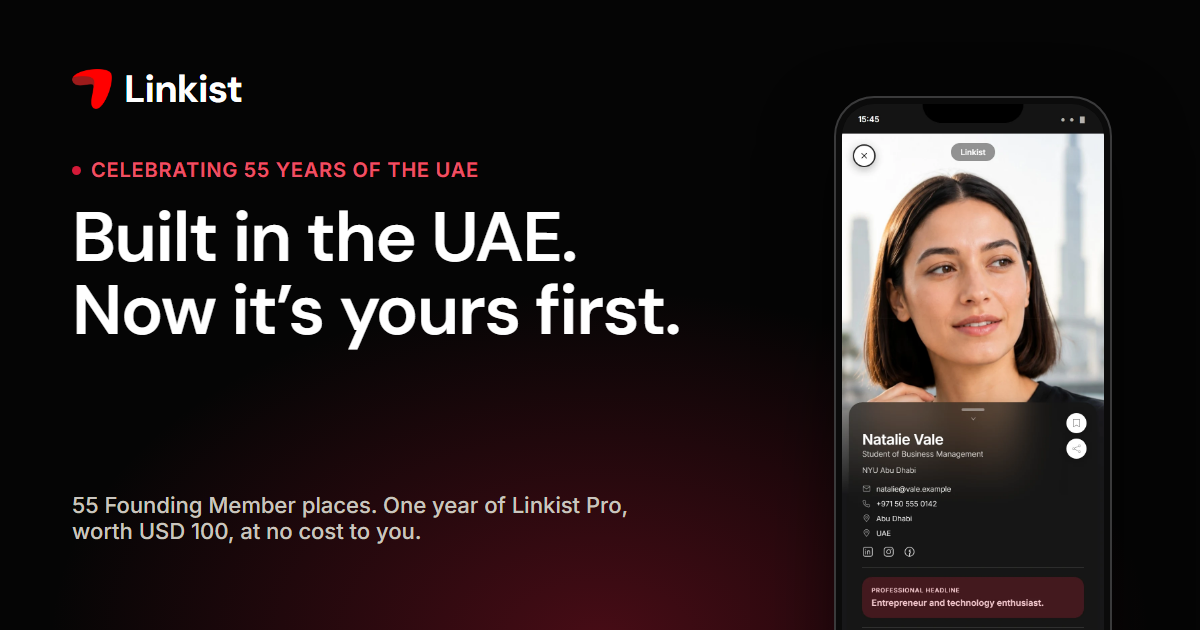
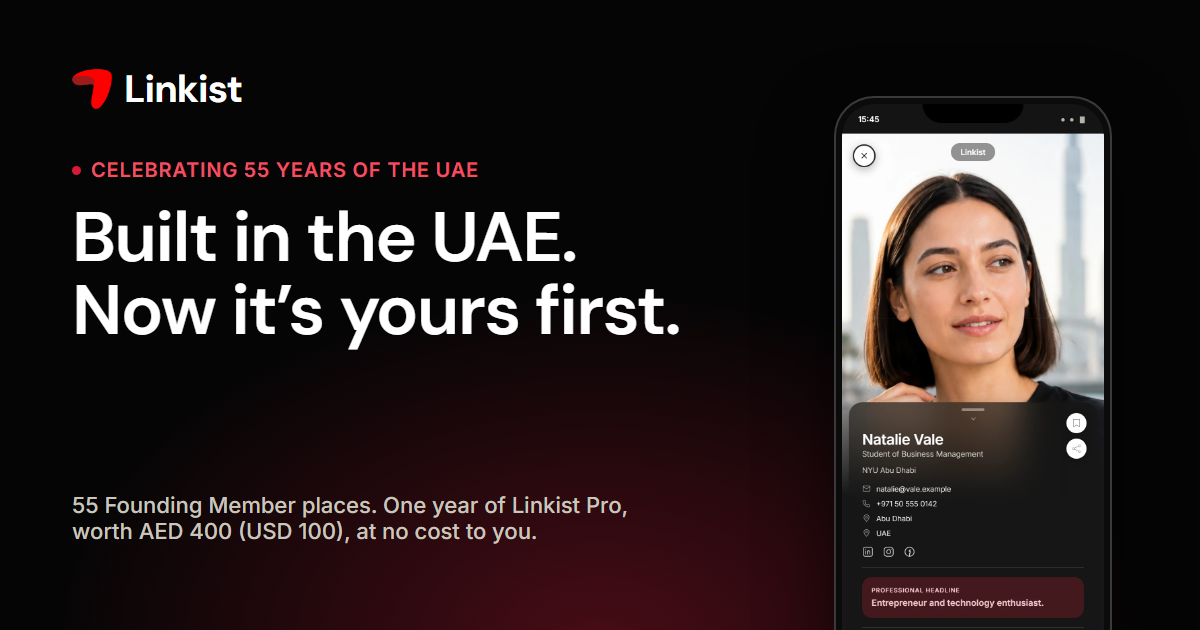
Early access: AED 400 (USD 100) everywhere the value appears (D88)
The thank-you paragraph, the "One year of Linkist Pro" card figure, the
confirmation's "What you get" list, the welcome email and the share image
now say "AED 400 (USD 100)" instead of "USD 100". On the card, "(USD 100)"
is set smaller after "AED 400" so the figure fits on a phone. The price
test now covers the confirmation, the email and the share image, and a
test keeps "worth USD 100" from coming back.

Changed region(s): [[0.1233, 0.8143, 0.4625, 0.8746]]

diff --git a/src/content/plans.test.ts b/src/content/plans.test.ts
@@ -28,13 +28,26 @@ describe('prices in two currencies (D78)', () => {
 
   it('writes the same pairs in the page and answer text', () => {
     // Any "AED n ($m)", "$m (AED n)" or "USD m (AED n)" written out in a page, the help centre, the assistant or llms.txt follows the same rate.
-    const files = ['src/content/help.ts', 'src/lib/knowledge.ts', 'src/app/bundles/page.tsx', 'src/app/nfc-cards/page.tsx', 'src/app/pricing/page.tsx', 'src/app/early-access/page.tsx', 'src/app/llms.txt/route.ts', 'src/content/plans.ts'];
+    const files = [
+      'src/content/help.ts',
+      'src/lib/knowledge.ts',
+      'src/app/bundles/page.tsx',
+      'src/app/nfc-cards/page.tsx',
+      'src/app/pricing/page.tsx',
+      'src/app/early-access/page.tsx',
+      'src/components/early-access/ClaimForm.tsx',
+      'src/app/api/early-access/route.ts',
+      'src/content/og.ts',
+      'src/app/llms.txt/route.ts',
+      'src/content/plans.ts',
+    ];
     for (const f of files) {
       const text = readFileSync(f, 'utf8');
       const n = (s: string) => Number(s.replace(/,/g, ''));
       for (const m of text.matchAll(/AED ([\d,]+) \(\$([\d,]+)\)/g)) expect(n(m[1]!), `${f}: ${m[0]}`).toBe(n(m[2]!) * AED_PER_USD);
       for (const m of text.matchAll(/(?:\$|USD )([\d,]+) \(AED ([\d,]+)\)/g)) expect(n(m[2]!), `${f}: ${m[0]}`).toBe(n(m[1]!) * AED_PER_USD);
-      for (const m of text.matchAll(/AED ([\d,]+) \(USD ([\d,]+)\)/g)) expect(n(m[1]!), `${f}: ${m[0]}`).toBe(n(m[2]!) * AED_PER_USD);
+      // "AED n (USD m)", also with markup between the two, as in the early access card's figure (D88).
+      for (const m of text.matchAll(/AED ([\d,]+)\s*(?:<[^>]+>\s*)*\(USD ([\d,]+)\)/g)) expect(n(m[1]!), `${f}: ${m[0]}`).toBe(n(m[2]!) * AED_PER_USD);
     }
     const earlyAccess = readFileSync('src/app/early-access/page.tsx', 'utf8');
     expect(earlyAccess).toContain('USD 100 (AED 400)');

diff --git a/src/app/early-access/page.tsx b/src/app/early-access/page.tsx
@@ -143,7 +143,11 @@ export default function EarlyAccessPage() {
             <h2 className="ea-h2 mt-3">Celebrating 55 years of the UAE.</h2>
             <p className="ea-text mt-6">
               Linkist was founded in the UAE, a country that makes it possible to build something new. To mark the UAE’s 55th National Day, we’re giving <strong>55</strong> professionals early access as{' '}
-              <strong>Founding Members</strong>, with one year of Linkist Pro, <strong>worth USD 100</strong>, on us.
+              <strong>Founding Members</strong>, with one year of Linkist Pro,{' '}
+              <strong>
+                worth <span className="whitespace-nowrap">AED 400 (USD 100)</span>
+              </strong>
+              , on us.
             </p>
             <p className="ea-text mt-4">Thank you to the UAE, and happy Eid Al Etihad.</p>
             <p className="mt-5 font-semibold">The Linkist team</p>
@@ -157,7 +161,9 @@ export default function EarlyAccessPage() {
           <h2 className="ea-h2 mt-3">What you get as a Founding Member</h2>
           <ul className="ea-gets mt-8">
             <li className="card ea-card">
-              <p className="ea-figure">USD 100</p>
+              <p className="ea-figure">
+                AED 400 <span className="ea-figure__usd">(USD 100)</span>
+              </p>
               <h3 className="ea-card__title mt-3">One year of Linkist Pro</h3>
               <p className="ea-card__text">
                 Full access to the Pro app for 12 months, at no cost. No payment details needed. After 12 months you move to the free Essential plan unless you choose to continue with Pro. We’ll remind you first.

diff --git a/src/lib/early-access.test.ts b/src/lib/early-access.test.ts
@@ -67,6 +67,13 @@ describe('the page text (Liju’s notes v2.1)', () => {
     expect(page).toContain('Three steps, about 60 seconds.');
   });
 
+  it('gives the year of Pro its value as AED 400 (USD 100) everywhere a visitor reads it (owner, 27 November 2026, D88)', () => {
+    for (const f of PAGE_FILES) expect(readFileSync(f, 'utf8'), f).not.toMatch(/worth USD 100|"ea-figure">\s*USD/);
+    for (const f of ['src/app/early-access/page.tsx', 'src/components/early-access/ClaimForm.tsx', 'src/app/api/early-access/route.ts', 'src/content/og.ts']) {
+      expect(readFileSync(f, 'utf8'), f).toMatch(/AED 400\s*(?:<[^>]+>\s*)*\(USD 100\)/);
+    }
+  });
+
   it('gives the landing page its own header and footer', () => {
     expect(LANDING_PATHS).toContain('/early-access');
   });

diff --git a/src/content/og.ts b/src/content/og.ts
@@ -34,7 +34,7 @@ export const OG_PAGES: readonly OgPage[] = [
     title: 'Built in the UAE. Now it’s yours first.',
     eyebrow: 'Celebrating 55 years of the UAE',
     screen: 'v12-profile-natalie-dark',
-    foot: '55 Founding Member places. One year of Linkist Pro, worth USD 100, at no cost to you.',
+    foot: '55 Founding Member places. One year of Linkist Pro, worth AED 400 (USD 100), at no cost to you.',
   },
   { slug: 'ai', title: 'What the AI does. What it sees. How to switch it off.', eyebrow: 'AI and your data', screen: 'v6-enrich' },
   { slug: 'security', title: 'Written for a sceptical reader.', eyebrow: 'Security and trust' },

diff --git a/src/components/early-access/ClaimForm.tsx b/src/components/early-access/ClaimForm.tsx
@@ -181,7 +181,10 @@ function Confirmation({ done, titleId, compact }: { done: Done; titleId?: string
             <li>
               <Check size={16} aria-hidden="true" />
               <span>
-                <strong>One year of Linkist Pro, worth USD 100,</strong> at no cost to you
+                <strong>
+                  One year of Linkist Pro, worth <span className="whitespace-nowrap">AED 400 (USD 100)</span>,
+                </strong>{' '}
+                at no cost to you
               </span>
             </li>
             {GETS.map((g) => (

diff --git a/src/app/api/early-access/route.ts b/src/app/api/early-access/route.ts
@@ -35,7 +35,7 @@ function visitorText(c: Claim): string {
     'To celebrate the UAE’s 55th National Day, we’re giving our first 55 members early access, with one year of Linkist Pro on us. Happy Eid Al Etihad.',
     '',
     'What you get',
-    '- One year of Linkist Pro, worth USD 100, at no cost to you',
+    '- One year of Linkist Pro, worth AED 400 (USD 100), at no cost to you',
     '- Founding Member status',
     '- Early access to new features',
     '- A direct feedback channel to the Linkist team',

diff --git a/src/styles/early-access.css b/src/styles/early-access.css
@@ -209,6 +209,12 @@
     line-height: 1;
     letter-spacing: -0.01em;
     color: var(--brand-coral);
+    white-space: nowrap;
+  }
+  /* The dollar amount after the dirham one, smaller, so "AED 400 (USD 100)" fits the card on a phone (D88). */
+  .ea-figure__usd {
+    font-size: 0.6em;
+    letter-spacing: 0;
   }
   .ea-icon {
     color: var(--brand-coral);

diff --git a/docs/decision-log.md b/docs/decision-log.md
@@ -91,3 +91,4 @@ One line per decision, newest last. Format: date, decision, why, trade-off noted
 | D85 | 2026-11-26 | The early access claim card no longer asks about product updates. The "Send me Linkist product updates" box is gone, the claim no longer carries the answer, and the team's lead email drops its "Product updates" line. | Owner, 26 November 2026, with a phone screenshot of the claim card: "Remove this check option for updates." | Claims made from now on record no choice about product updates, so nobody who claims on this page has opted in to them. |
 | D86 | 2026-11-27 | On the early access page, the hero callout reads "Get 12 months of Linkist Pro, worth AED 400 (USD 100), as a launch offer. No payment details required.", and "How it works" becomes "Three steps, about 60 seconds.": claim your place, create your account (choose a password, then enter the 6-digit code), activate Pro. Creating the account and verifying the email were two steps and are now one. The steps sit three across from 768 px. The other "worth USD 100" mentions (the thank-you paragraph, the USD 100 card, the confirmation, the welcome email and the share image) are unchanged. | Owner, 27 November 2026, with screenshots of the hero and the steps: revise the text to "... worth AED 400 (USD 100) as launch offer"; "can we make this 3 steps and 60 secs?" "A" and the commas were added for grammar. | The price follows the AED = USD × 4 rule (D78), which plans.test.ts now also checks in the "AED n (USD m)" form. A test keeps the heading's number in step with the list. "About 60 seconds" depends mostly on how fast the 6-digit code email arrives; it has not been timed on a real sign-up. |
 | D87 | 2026-11-27 | Visitors in the UAE are counted without tapping Allow. A new edge middleware (`src/middleware.ts`) reads Vercel's `x-vercel-ip-country` header. For the UAE it sets the session cookie `linkist-country=AE`, and it clears the cookie for anyone else. The cookie notice and the pre-paint script already treat a notice-only market as "tags start unless switched off" (D75), so UAE visitors get Google Analytics and the Meta Pixel from their first page, and the notice offers "OK" and "Switch off". The notice-only list (`src/lib/consent-region.ts`) is now the UAE alone. India, the US, Singapore and Australia stay consent-first until confirmed (C12). Everyone else, and anyone whose country is unknown, is asked first as before. The Cookie Policy (its intro, the linkist-country row with a session retention, and the Tag Manager, GA4 and Pixel rows), Sub-processors, Security Overview and the trust page's site controls now say this. | Owner, 27 November 2026, answering "whether UAE visitors should be counted without tapping Allow on the cookie notice": "Yes". | Paid traffic from the UAE (the Google Demand Gen campaign) shows up in GA4 for every visitor who doesn't switch the tags off, not only those who tapped Allow. Counsel should still confirm that a notice with a switch-off meets the UAE PDPL (Cookie Policy placeholder). Tests cover the country rule and the cookie the middleware writes (session only, readable by the notice, cleared outside the UAE). |
+| D88 | 2026-11-27 | Every place on the early access journey that gave the year of Pro's value as "USD 100" now says "AED 400 (USD 100)". That covers the thank-you paragraph, the figure on the "One year of Linkist Pro" card (with "(USD 100)" smaller after "AED 400", so it fits on a phone), the "What you get" list in the confirmation, the welcome email and the share image (`og.ts`, `public/og/early-access.png` re-rendered). The amounts are kept on one line. The offer terms' renewal line, "USD 100 (AED 400) a year", is unchanged. | Owner, 27 November 2026: "yes, switch them all to AED 400 (USD 100)", after D86 listed the places still saying "worth USD 100". | plans.test.ts now checks the confirmation, the email and the share image too, and accepts markup between the two amounts. A test fails if "worth USD 100" comes back on the journey. Platforms that already cached the old share image (WhatsApp, LinkedIn, Facebook) may show it until they fetch the page again. |
